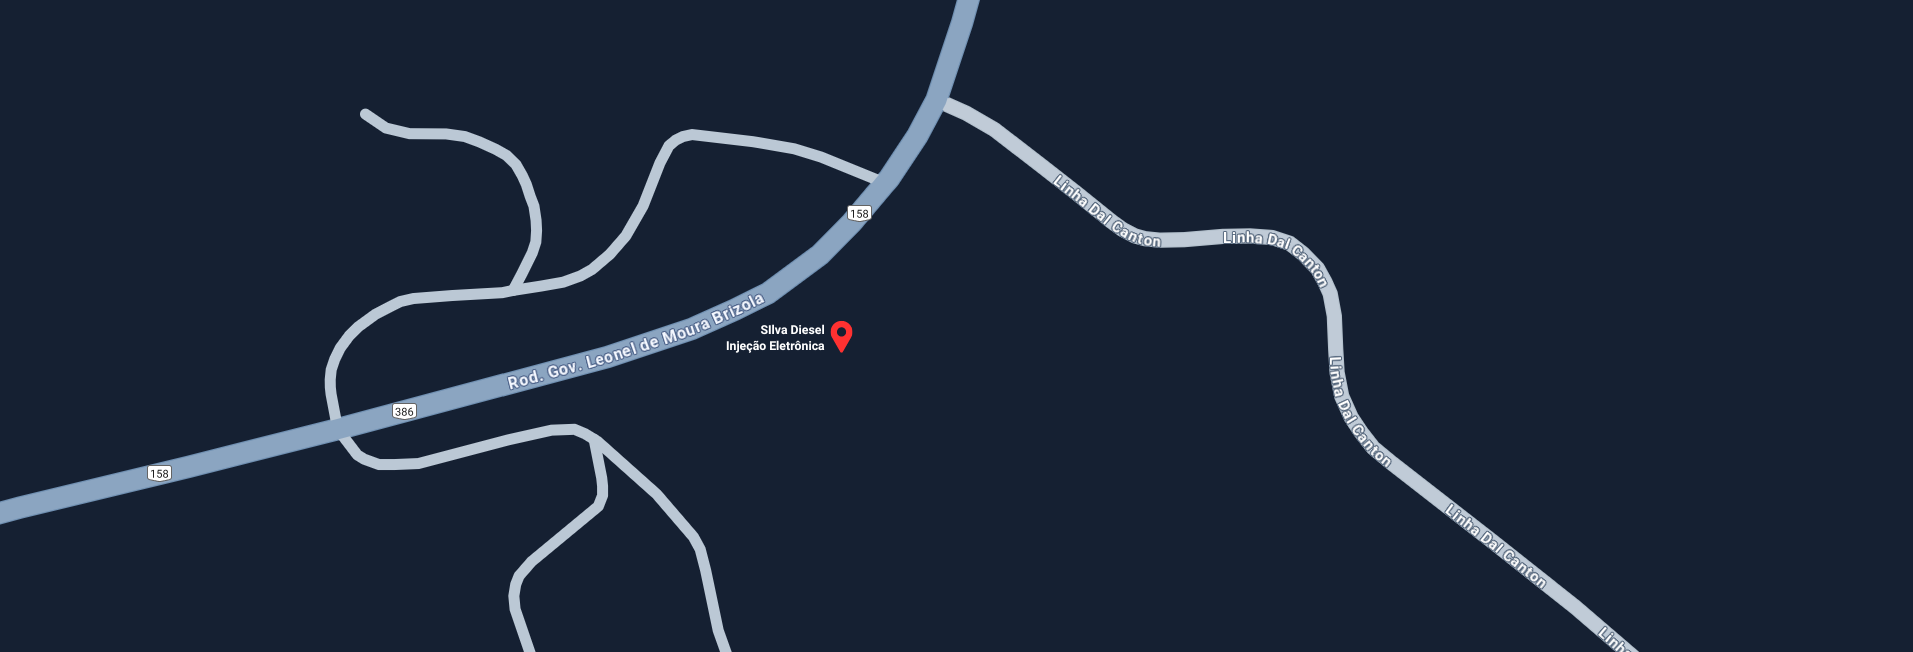
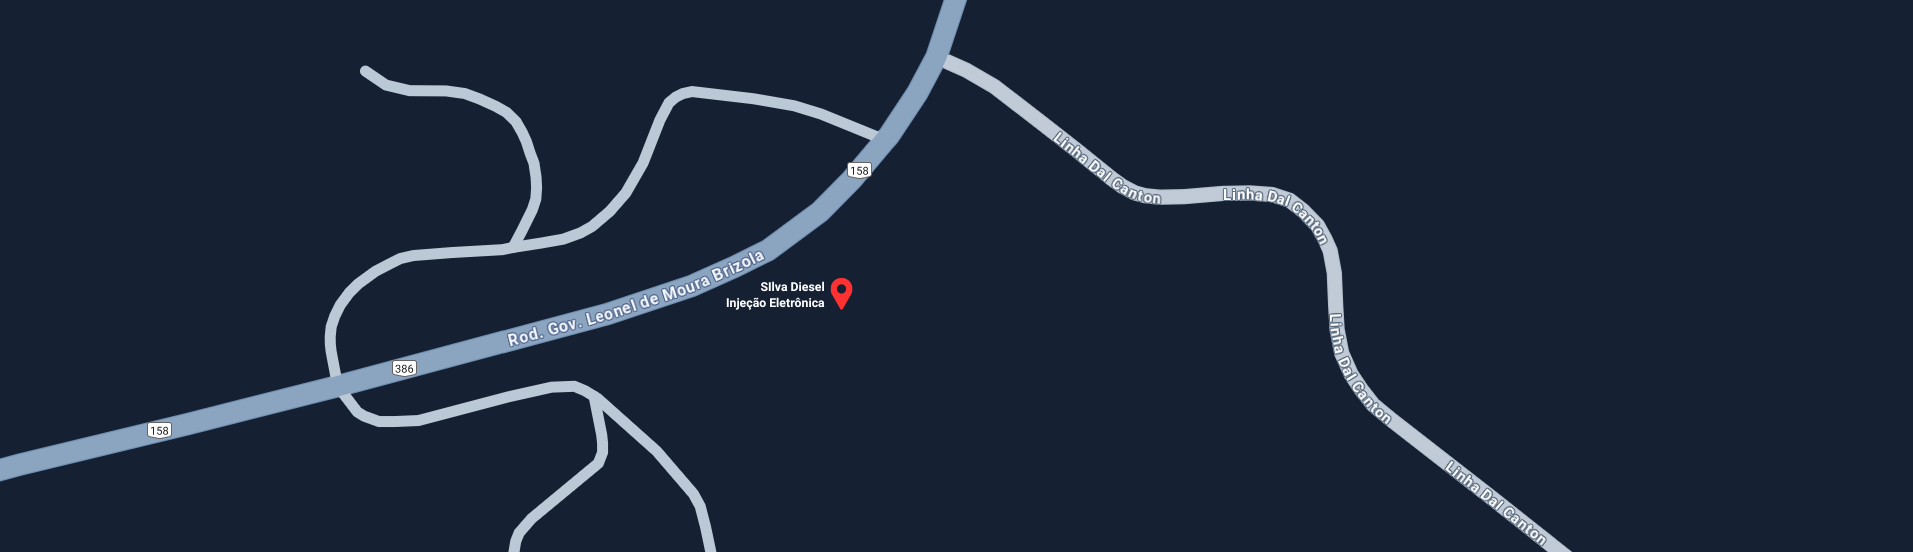
footer finalizado

diff --git a/src/lib/components/Header.svelte b/src/lib/components/Header.svelte
@@ -2,42 +2,62 @@
 	import { Phone } from 'lucide-svelte';
 	import Button from './ui/button/button.svelte';
 	let scrollY = 0;
+	let activeLink = 'Home';
 </script>
 
 <svelte:window bind:scrollY />
+
 <nav
 	class="fixed z-20 flex h-16 w-full items-center justify-between bg-gradient-to-b {scrollY >
 	1.8181817531585693
 		? 'from-zinc-900 from-45% to-transparent'
 		: ''}"
 >
-	<!-- <h1 class="fixed right-40 top-40 z-20 bg-white text-5xl text-black">{scrollY}</h1> -->
-
 	<div class="fixed z-10 flex w-full items-center justify-around py-5 text-white">
 		<div class="flex items-center">
 			<h1 class="staatliches text-4xl">Silva Diesel</h1>
 		</div>
 		<div class="flex gap-12 text-lg">
-			<div
-				class="hover: relative after:absolute after:bottom-0 after:left-0 after:h-1 after:w-full after:origin-bottom-right after:scale-x-0 after:bg-[#184898] after:transition-transform after:duration-300 after:ease-in-out hover:after:origin-bottom-left hover:after:scale-x-100"
+			<a
+				href="/"
+				class="hover: relative after:absolute after:bottom-0 after:left-0 after:h-1 after:w-full after:origin-bottom-right after:scale-x-0 after:bg-[#184898] after:transition-transform after:duration-300 after:ease-in-out hover:after:origin-bottom-left hover:after:scale-x-100 {activeLink ===
+				'Home'
+					? 'after:origin-bottom-left after:scale-x-100'
+					: ''}"
+				on:click={() => (activeLink = 'Home')}
 			>
-				<a class="" href="/">Home</a>
-			</div>
-			<div
-				class="hover: relative after:absolute after:bottom-0 after:left-0 after:h-1 after:w-full after:origin-bottom-right after:scale-x-0 after:bg-[#184898] after:transition-transform after:duration-300 after:ease-in-out hover:after:origin-bottom-left hover:after:scale-x-100"
+				Home
+			</a>
+			<a
+				href="#sobre"
+				class="hover: relative after:absolute after:bottom-0 after:left-0 after:h-1 after:w-full after:origin-bottom-right after:scale-x-0 after:bg-[#184898] after:transition-transform after:duration-300 after:ease-in-out hover:after:origin-bottom-left hover:after:scale-x-100 {activeLink ===
+				'Sobre'
+					? 'after:origin-bottom-left after:scale-x-100'
+					: ''}"
+				on:click={() => (activeLink = 'Sobre')}
 			>
-				<a class="" href="/">Sobre</a>
-			</div>
-			<div
-				class="hover: relative after:absolute after:bottom-0 after:left-0 after:h-1 after:w-full after:origin-bottom-right after:scale-x-0 after:bg-[#184898] after:transition-transform after:duration-300 after:ease-in-out hover:after:origin-bottom-left hover:after:scale-x-100"
+				Sobre
+			</a>
+			<a
+				href="#especialidades"
+				class="hover: relative after:absolute after:bottom-0 after:left-0 after:h-1 after:w-full after:origin-bottom-right after:scale-x-0 after:bg-[#184898] after:transition-transform after:duration-300 after:ease-in-out hover:after:origin-bottom-left hover:after:scale-x-100 {activeLink ===
+				'Especialidades'
+					? 'after:origin-bottom-left after:scale-x-100'
+					: ''}"
+				on:click={() => (activeLink = 'Especialidades')}
 			>
-				<a class="" href="/">Especialidades</a>
-			</div>
-			<div
-				class="hover: relative after:absolute after:bottom-0 after:left-0 after:h-1 after:w-full after:origin-bottom-right after:scale-x-0 after:bg-[#184898] after:transition-transform after:duration-300 after:ease-in-out hover:after:origin-bottom-left hover:after:scale-x-100"
+				Especialidades
+			</a>
+			<a
+				href="#endereco"
+				class="hover: relative after:absolute after:bottom-0 after:left-0 after:h-1 after:w-full after:origin-bottom-right after:scale-x-0 after:bg-[#184898] after:transition-transform after:duration-300 after:ease-in-out hover:after:origin-bottom-left hover:after:scale-x-100 {activeLink ===
+				'Endereço'
+					? 'after:origin-bottom-left after:scale-x-100'
+					: ''}"
+				on:click={() => (activeLink = 'Endereço')}
 			>
-				<a class="" href="/">Endereço</a>
-			</div>
+				Endereço
+			</a>
 		</div>
 		<Button
 			variant="ghost"

diff --git a/src/lib/components/Footer.svelte b/src/lib/components/Footer.svelte
@@ -1,0 +1,61 @@
+<script>
+	import {
+		Facebook,
+		Instagram,
+		MailCheck,
+		MapPinnedIcon,
+		MapPinX,
+		PhoneForwarded
+	} from 'lucide-svelte';
+	import whatsapp from '$lib/img/whatsapp.svg';
+</script>
+
+<footer class="flex justify-evenly bg-[#28364e] py-10">
+	<div class="flex flex-col gap-2 text-white">
+		<h1 class="staatliches text-5xl">Silva Diesel</h1>
+		<p class="text-[15px]">CNPJ: 20.506.848/0001-02</p>
+		<div class=" flex gap-2 py-3">
+			<a target="_blank" href="https://www.instagram.com/silva_diesel.fw/"
+				><Instagram size="35" strokeWidth="1.8" color="white" /></a
+			>
+			<a target="_blank" href="https://www.facebook.com/p/Silva-Diesel-100064268430043/"
+				><Facebook size="35" strokeWidth="1.8" color="white" /></a
+			>
+			<a target="_blank" href="https://wa.me/5555984313863?text=Ol%C3%A1!%20Tudo%20bem%3F%20"
+				><img class="" src={whatsapp} alt="whatsapp" /></a
+			>
+		</div>
+	</div>
+	<div class="flex flex-col gap-1 text-white">
+		<h1 class="staatliches text-2xl">Especialidades</h1>
+		<div class="text-[15px]">
+			<p>Linha diesel leve e pesada</p>
+			<p>Sistema de bicos injetores</p>
+			<p>Conserto e programação de módulos</p>
+			<p>Sistema de arla</p>
+		</div>
+	</div>
+	<div class="flex flex-col text-white">
+		<h1 class="staatliches text-2xl">Horários</h1>
+		<div class="text-[15px]">
+			<p>Seg-Sex: 8:00 - 18:00</p>
+			<p>Fechamos ao meio dia</p>
+			Sab-Dom: Fechado
+		</div>
+	</div>
+	<div class="flex flex-col gap-2 text-white">
+		<h1 class="staatliches text-2xl">Localização</h1>
+		<div class="flex gap-2 text-[15px]">
+			<MapPinnedIcon size="20" />
+			<p>BR 386 - km 38, FW - RS</p>
+		</div>
+		<div class="flex gap-2 text-sm">
+			<MailCheck size="20" />
+			<p>eletricajsilva@yahoo.com.br</p>
+		</div>
+		<div class="flex gap-2 text-sm">
+			<PhoneForwarded size="20" />
+			<p>(55) 3744-2611</p>
+		</div>
+	</div>
+</footer>

diff --git a/src/routes/+page.svelte b/src/routes/+page.svelte
@@ -57,6 +57,7 @@
 </section>
 
 <section
+	id="sobre"
 	class="flex w-full flex-col items-center justify-center gap-10 bg-zinc-900 py-20 text-white"
 >
 	<div class="flex items-center gap-2">
@@ -98,7 +99,10 @@
 	</div>
 </section>
 
-<section class="flex w-full flex-col items-center justify-center gap-10 bg-zinc-900 py-20">
+<section
+	id="especialidades"
+	class="flex w-full flex-col items-center justify-center gap-10 bg-zinc-900 py-20"
+>
 	<div class="flex items-center gap-2">
 		<Separator
 			orientation="vertical"
@@ -109,7 +113,7 @@
 	<Cards />
 </section>
 
-<section class="flex w-full flex-col items-center justify-center gap-10 bg-[#28364e] py-20">
+<section class="flex w-full flex-col items-center justify-center gap-10 bg-[#28364e] py-14">
 	<Marquee />
 </section>
 
@@ -126,13 +130,11 @@
 	</div>
 </section>
 
-<a
-	target="_blank"
-	href="https://maps.app.goo.gl/uoNR5JFTBgbWXutN6"
-	class="flex min-h-[60%] w-full items-center justify-end overflow-x-hidden bg-cover bg-center pr-56"
-	style={`background-image: url(${mapa});`}
->
-	<div class="w-[30%]">
+<section id="endereco" class=" flex w-full items-center justify-end">
+	<a target="_blank" href="https://maps.app.goo.gl/qZQNJPo1G5pnLHAU7"
+		><img class="relative flex w-full" src={mapa} alt="localizaçao" /></a
+	>
+	<div class="absolute mr-56 w-[30%]">
 		<CardMaps />
 	</div>
-</a>
+</section>

diff --git a/src/lib/components/CardMaps.svelte b/src/lib/components/CardMaps.svelte
@@ -38,16 +38,5 @@
 			</div>
 			<p class="pl-4">eletricajsilva@yahoo.com.br</p>
 		</div>
-		<Separator />
-		<div class="flex flex-col gap-1">
-			<div class="flex items-center gap-2">
-				<Separator
-					orientation="vertical"
-					class="h-[2rem] min-h-[2rem] w-[0.4rem] rounded-l-md bg-[#184898]"
-				/>
-				<h1 class="staatliches text-3xl">Horário</h1>
-			</div>
-			<p class="pl-4">Seg a sex - 8:00 - 18:00</p>
-		</div>
 	</Card.Content>
 </Card.Root>

diff --git a/src/routes/+layout.svelte b/src/routes/+layout.svelte
@@ -1,9 +1,11 @@
 <script>
 	import '../app.css';
 	import Header from '$lib/components/Header.svelte';
+	import Footer from '$lib/components/Footer.svelte';
 </script>
 
 <div class="h-screen w-full">
 	<Header />
 	<slot></slot>
+	<Footer />
 </div>

diff --git a/src/lib/components/animation/Marquee.svelte b/src/lib/components/animation/Marquee.svelte
@@ -59,7 +59,7 @@
 			})}
 		>
 			{#each marcas as marca}
-				<img src={marca} alt="Logo" class=" flex h-20" />
+				<img src={marca} alt="Logo" class=" flex h-16" />
 			{/each}
 		</div>
 	{/each}
